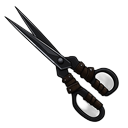
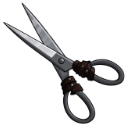
Fix matrix theme

Changed region(s): [[0.0, 0.0, 1.0, 0.9688], [0.0938, 0.0312, 0.125, 0.0625]]

diff --git a/newtab.html b/newtab.html
@@ -801,19 +801,20 @@
       position: absolute;
       left: 0;
       top: 0;
-      width: 160px;
-      height: 160px;
-      margin: -80px 0 0 -80px;
+      width: 220px;
+      height: 220px;
+      margin: -110px 0 0 -110px;
       border-radius: 50%;
       background: radial-gradient(
         circle,
-        rgba(220, 255, 240, 0.55) 0%,
-        rgba(11, 129, 90, 0.42) 35%,
-        rgba(11, 129, 90, 0.15) 55%,
-        transparent 72%
+        rgba(210, 255, 235, 0.82) 0%,
+        rgba(20, 200, 145, 0.62) 28%,
+        rgba(11, 129, 90, 0.55) 42%,
+        rgba(11, 129, 90, 0.28) 58%,
+        transparent 78%
       );
-      filter: blur(22px);
-      opacity: 0.94;
+      filter: blur(24px);
+      opacity: 1;
       will-change: transform;
       mix-blend-mode: screen;
     }
@@ -1181,7 +1182,12 @@
       color:#009928;
       font-size:1.35rem !important;
     }
-    /* Terminal field: Courier phosphor + glow (matrix typewriter vibe) */
+    /* Wider field to the right only — text start (left edge + padding) unchanged */
+    body.matrixfall .search-shell {
+      width: calc(100% + 1.75rem);
+    }
+
+    /* Terminal field: phosphor bloom (classic typewriter-style shadow) */
     body.matrixfall .search-shell .search-bar {
       border-radius: 0 !important;
       padding: 0.65rem 2.85rem 0.7rem 0 !important;
@@ -1192,18 +1198,20 @@
       background: transparent !important;
       border: none !important;
       box-shadow: none !important;
-      color: #33f933 !important;
+      color: #33ff66 !important;
       text-shadow: 1px 1px 9px rgb(51, 249, 51);
-      caret-color: #33f933;
+      caret-color: #33ff66;
       caret-shape: block;
     }
     body.matrixfall .search-bar::placeholder {
-      color: rgba(51, 249, 51, 0.45);
-      text-shadow: 1px 1px 9px rgba(51, 249, 51, 0.35);
+      color: #33ff66;
+      opacity: 1;
+      text-shadow: 1px 1px 9px rgb(51, 249, 51);
     }
     body.matrixfall .search-bar:focus {
       outline: none !important;
       box-shadow: none !important;
+      text-shadow: 1px 1px 9px rgb(51, 249, 51);
     }
     body.matrixfall .search-mag {
       color: rgba(51, 249, 51, 0.55);
@@ -2256,18 +2264,18 @@
     body.droogclockwork .quote { color:#2e2c28; font-style:normal; font-size:clamp(1.1rem,2vw,1.35rem)!important; text-shadow:0 1px 2px rgba(255,255,255,0.6); } body.droogclockwork .quote-author { color:#d45820; text-shadow:0 1px 2px rgba(255,255,255,0.5); }
 
     /* ─── GILDED JAZZ (art deco / jazz-age excess) ─────────────────── */
+    /* No visible cursor — only the green-light aura follows the pointer (see .green-light-motion). */
     body.gatsbygilded {
       background:#1c2840;
       font-family:'Playfair Display', Georgia, serif;
-      cursor: url('assets/gatsbygilded/green-light-cursor.png') 36 36, crosshair;
+      cursor: none;
     }
     body.gatsbygilded input.search-bar,
-    body.gatsbygilded textarea {
-      cursor:text;
-    }
-    body.gatsbygilded .search-btn,
-    body.gatsbygilded .search-mag {
-      cursor:pointer;
+    body.gatsbygilded textarea,
+    body.gatsbygilded button,
+    body.gatsbygilded .search-mag,
+    body.gatsbygilded .search-btn {
+      cursor: none;
     }
     body.gatsbygilded::before {
       content: '';
@@ -3926,14 +3934,7 @@
       box-shadow: 0 6px 24px rgba(120, 55, 35, 0.4), inset 0 1px 0 rgba(255, 190, 150, 0.12);
     }
 
-    body.matrixfall .search-actions .search-btn:first-of-type {
-      font-family: 'VT323', 'Space Mono', monospace;
-      border: 1px solid #00ff41;
-      background: rgba(0, 28, 10, 0.92);
-      color: #33ff66;
-      text-shadow: 0 0 10px rgba(51, 255, 70, 0.85);
-      box-shadow: 0 0 18px rgba(0, 255, 65, 0.22), inset 0 0 12px rgba(0, 255, 65, 0.06);
-    }
+    body.matrixfall .search-actions .search-btn:first-of-type,
     body.matrixfall .search-actions .search-btn:last-of-type {
       font-family: 'VT323', 'Space Mono', monospace;
       border: 1px solid rgba(0, 120, 45, 0.75);
@@ -3942,19 +3943,17 @@
       text-shadow: 0 0 8px rgba(26, 184, 58, 0.45);
       box-shadow: inset 0 0 16px rgba(0, 60, 25, 0.35);
     }
-    body.matrixfall .search-actions .search-btn:first-of-type:hover {
-      border-color: #8fff9a;
-      background: rgba(0, 42, 14, 0.96);
-      color: #d0ffd8;
-      text-shadow: 0 0 16px rgba(100, 255, 120, 0.95), 0 0 28px rgba(0, 255, 80, 0.45);
-      box-shadow: 0 0 32px rgba(0, 255, 90, 0.45), inset 0 0 16px rgba(0, 255, 80, 0.12);
-    }
+    body.matrixfall .search-actions .search-btn:first-of-type:hover,
     body.matrixfall .search-actions .search-btn:last-of-type:hover {
       border-color: #22e858;
       background: rgba(0, 18, 8, 0.96);
       color: #5ef07a;
-      text-shadow: 0 0 14px rgba(60, 240, 100, 0.65);
-      box-shadow: inset 0 0 20px rgba(0, 100, 40, 0.5), 0 0 18px rgba(0, 200, 70, 0.25);
+      text-shadow:
+        0 0 14px rgba(60, 240, 100, 0.75),
+        0 0 26px rgba(0, 255, 80, 0.4);
+      box-shadow:
+        0 0 22px rgba(0, 200, 70, 0.35),
+        inset 0 0 20px rgba(0, 100, 40, 0.5);
     }
 
     body.rivendelleve .search-actions .search-btn:first-of-type {

diff --git a/newtab.js b/newtab.js
@@ -932,9 +932,6 @@ function syncMatrixRain() {
   let mx = window.innerWidth * 0.5;
   let my = window.innerHeight * 0.5;
 
-  /* Match gilded theme cursor PNG hotspot 36×36 */
-  const GILDED_CURSOR_HOTSPOT = { w: 72, h: 72, hx: 36, hy: 36 };
-
   window.addEventListener(
     "mousemove",
     (e) => {
@@ -956,9 +953,7 @@ function syncMatrixRain() {
     }
     root.hidden = false;
 
-    const cx = mx - GILDED_CURSOR_HOTSPOT.hx + GILDED_CURSOR_HOTSPOT.w * 0.5;
-    const cy = my - GILDED_CURSOR_HOTSPOT.hy + GILDED_CURSOR_HOTSPOT.h * 0.5;
-    core.style.transform = `translate3d(${cx}px, ${cy}px, 0)`;
+    core.style.transform = `translate3d(${mx}px, ${my}px, 0)`;
 
     requestAnimationFrame(tick);
   }
